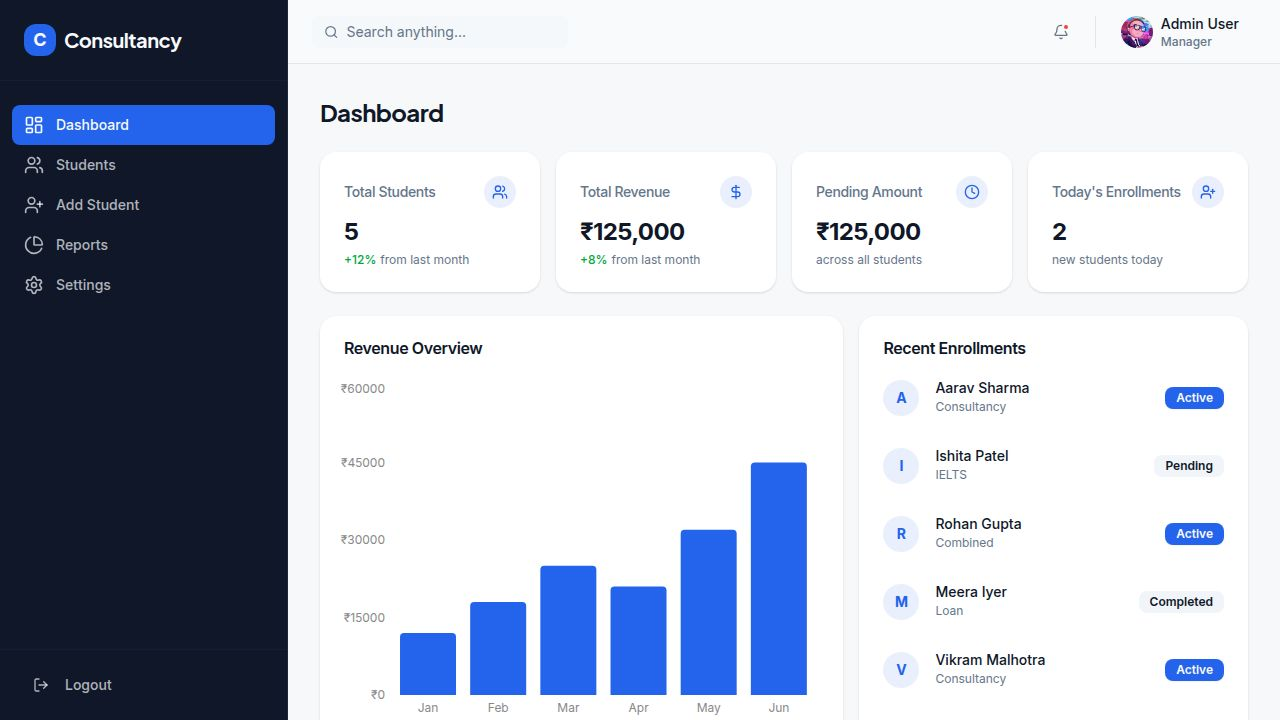
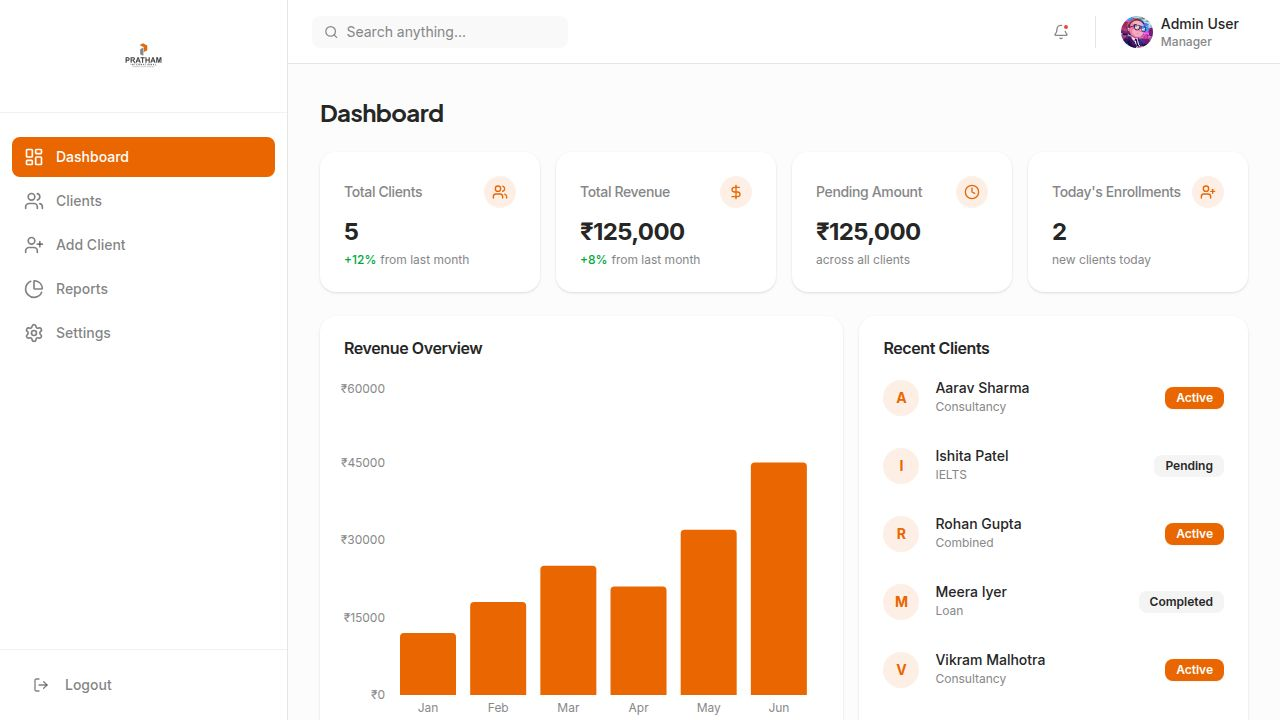
Update application to refer to clients instead of students
Replace all instances of "Student" with "Client" in the sidebar navigation, dashboard titles, client list page, and client details/form pages.

Replit-Commit-Author: Agent
Replit-Commit-Session-Id: 5cdef3fe-e232-4ab3-8b0e-f3c8dd89f6ff
Replit-Commit-Checkpoint-Type: full_checkpoint
Replit-Commit-Event-Id: ae27744d-55fc-48d9-ad7e-752196ddf3ad
Replit-Commit-Screenshot-Url: https://storage.googleapis.com/screenshot-production-us-central1/555abfa6-2735-40dc-b0f5-146c906f4017/5cdef3fe-e232-4ab3-8b0e-f3c8dd89f6ff/mmdcCRo
Replit-Helium-Checkpoint-Created: true

diff --git a/client/src/pages/Dashboard/Dashboard.tsx b/client/src/pages/Dashboard/Dashboard.tsx
@@ -32,7 +32,7 @@ export default function Dashboard() {
     <PageWrapper title="Dashboard">
       <div className="grid gap-4 md:grid-cols-2 lg:grid-cols-4">
         <StatCard
-          title="Total Students"
+          title="Total Clients"
           value={stats?.totalStudents || 0}
           icon={Users}
           trend={{ value: 12, isPositive: true }}
@@ -49,14 +49,14 @@ export default function Dashboard() {
           title="Pending Amount"
           value={`₹${(stats?.totalPending || 0).toLocaleString()}`}
           icon={Clock}
-          description="across all students"
+          description="across all clients"
           className="border-l-4 border-l-yellow-500"
         />
         <StatCard
           title="Today's Enrollments"
           value={stats?.todaysEnrollments || 0}
           icon={UserPlus}
-          description="new students today"
+          description="new clients today"
         />
       </div>
 
@@ -94,7 +94,7 @@ export default function Dashboard() {
         
         <Card className="col-span-3 border-none shadow-sm">
           <CardHeader>
-            <CardTitle>Recent Enrollments</CardTitle>
+            <CardTitle>Recent Clients</CardTitle>
           </CardHeader>
           <CardContent>
             <div className="space-y-8">
@@ -128,7 +128,7 @@ export default function Dashboard() {
              <DataTable 
                data={recentStudents?.slice(0, 5) || []}
                columns={[
-                 { header: "Student", accessorKey: "name", className: "font-medium" },
+                 { header: "Client", accessorKey: "name", className: "font-medium" },
                  { header: "Date", accessorKey: "enrollmentDate" },
                  { header: "Amount", cell: (s) => `₹${s.amountReceived.toLocaleString()}` },
                  { header: "Status", cell: () => <Badge className="bg-green-100 text-green-700 hover:bg-green-100 border-none">Paid</Badge> },

diff --git a/client/src/pages/Students/StudentForm.tsx b/client/src/pages/Students/StudentForm.tsx
@@ -91,13 +91,13 @@ export default function StudentForm() {
       
       toast({
         title: "Success",
-        description: "Student created successfully",
+        description: "Client created successfully",
       });
       setLocation("/students");
     } catch (error) {
       toast({
         title: "Error",
-        description: "Failed to create student",
+        description: "Failed to create client",
         variant: "destructive"
       });
     }
@@ -108,7 +108,7 @@ export default function StudentForm() {
       id: "basic",
       title: "Basic Details",
       component: (
-        <FormSection title="Student Information" description="Enter the basic details of the student">
+        <FormSection title="Client Information" description="Enter the basic details of the client">
           <FormTextInput name="name" control={control} label="Full Name" placeholder="e.g. Rahul Kumar" />
           <FormDateInput name="enrollmentDate" control={control} label="Enrollment Date" />
           <FormSelectInput 
@@ -205,15 +205,15 @@ export default function StudentForm() {
 
   return (
     <PageWrapper 
-      title="Add New Student" 
+      title="Add New Client" 
       breadcrumbs={[
-        { label: "Students", href: "/students" },
-        { label: "New Student" }
+        { label: "Clients", href: "/students" },
+        { label: "New Client" }
       ]}
     >
       <div className="max-w-4xl mx-auto pb-12">
         <MultiStepFormWrapper 
-          title="Student Registration" 
+          title="Client Registration" 
           steps={steps} 
           onSubmit={handleSubmit(onSubmit)}
         />

diff --git a/client/src/pages/Students/StudentDetails.tsx b/client/src/pages/Students/StudentDetails.tsx
@@ -21,7 +21,7 @@ export default function StudentDetails() {
   });
 
   if (isLoading || !student) {
-    return <PageWrapper title="Loading..."><div className="p-4">Loading student details...</div></PageWrapper>;
+    return <PageWrapper title="Loading..."><div className="p-4">Loading client details...</div></PageWrapper>;
   }
 
   const overviewTab = (
@@ -30,7 +30,7 @@ export default function StudentDetails() {
         title="Personal Information"
         items={[
           { label: "Full Name", value: student.name },
-          { label: "Student ID", value: student.id },
+          { label: "Client ID", value: student.id },
           { label: "Email", value: student.email || "N/A" },
           { label: "Phone", value: student.phone || "N/A" },
         ]}
@@ -95,15 +95,15 @@ export default function StudentDetails() {
 
   return (
     <PageWrapper 
-      title={`Student: ${student.name}`}
+      title={`Client: ${student.name}`}
       breadcrumbs={[
-        { label: "Students", href: "/students" },
+        { label: "Clients", href: "/students" },
         { label: student.name }
       ]}
       actions={
         <Button onClick={() => setLocation(`/students/${id}/edit`)}>
           <Edit className="w-4 h-4 mr-2" />
-          Edit Student
+          Edit Client
         </Button>
       }
     >

diff --git a/client/src/pages/Students/StudentList.tsx b/client/src/pages/Students/StudentList.tsx
@@ -51,18 +51,18 @@ export default function StudentList() {
 
   return (
     <PageWrapper 
-      title="Students" 
-      breadcrumbs={[{ label: "Students" }]}
+      title="Clients" 
+      breadcrumbs={[{ label: "Clients" }]}
       actions={
         <Button onClick={() => setLocation("/students/new")}>
           <Plus className="w-4 h-4 mr-2" />
-          Add Student
+          Add Client
         </Button>
       }
     >
       <div className="space-y-4">
         <TableToolbar 
-          searchPlaceholder="Search by name or counsellor..."
+          searchPlaceholder="Search by client or counsellor..."
           onSearch={setSearch}
           filters={
             <Select value={statusFilter} onValueChange={setStatusFilter}>

diff --git a/client/src/layout/Sidebar.tsx b/client/src/layout/Sidebar.tsx
@@ -16,8 +16,8 @@ import logoUrl from "@/assets/images/Pratham-international-logo.svg";
 
 const sidebarItems = [
   { icon: LayoutDashboard, label: "Dashboard", href: "/" },
-  { icon: Users, label: "Students", href: "/students" },
-  { icon: UserPlus, label: "Add Student", href: "/students/new" },
+  { icon: Users, label: "Clients", href: "/students" },
+  { icon: UserPlus, label: "Add Client", href: "/students/new" },
   { icon: PieChart, label: "Reports", href: "/reports" },
   { icon: Settings, label: "Settings", href: "/settings" },
 ];
